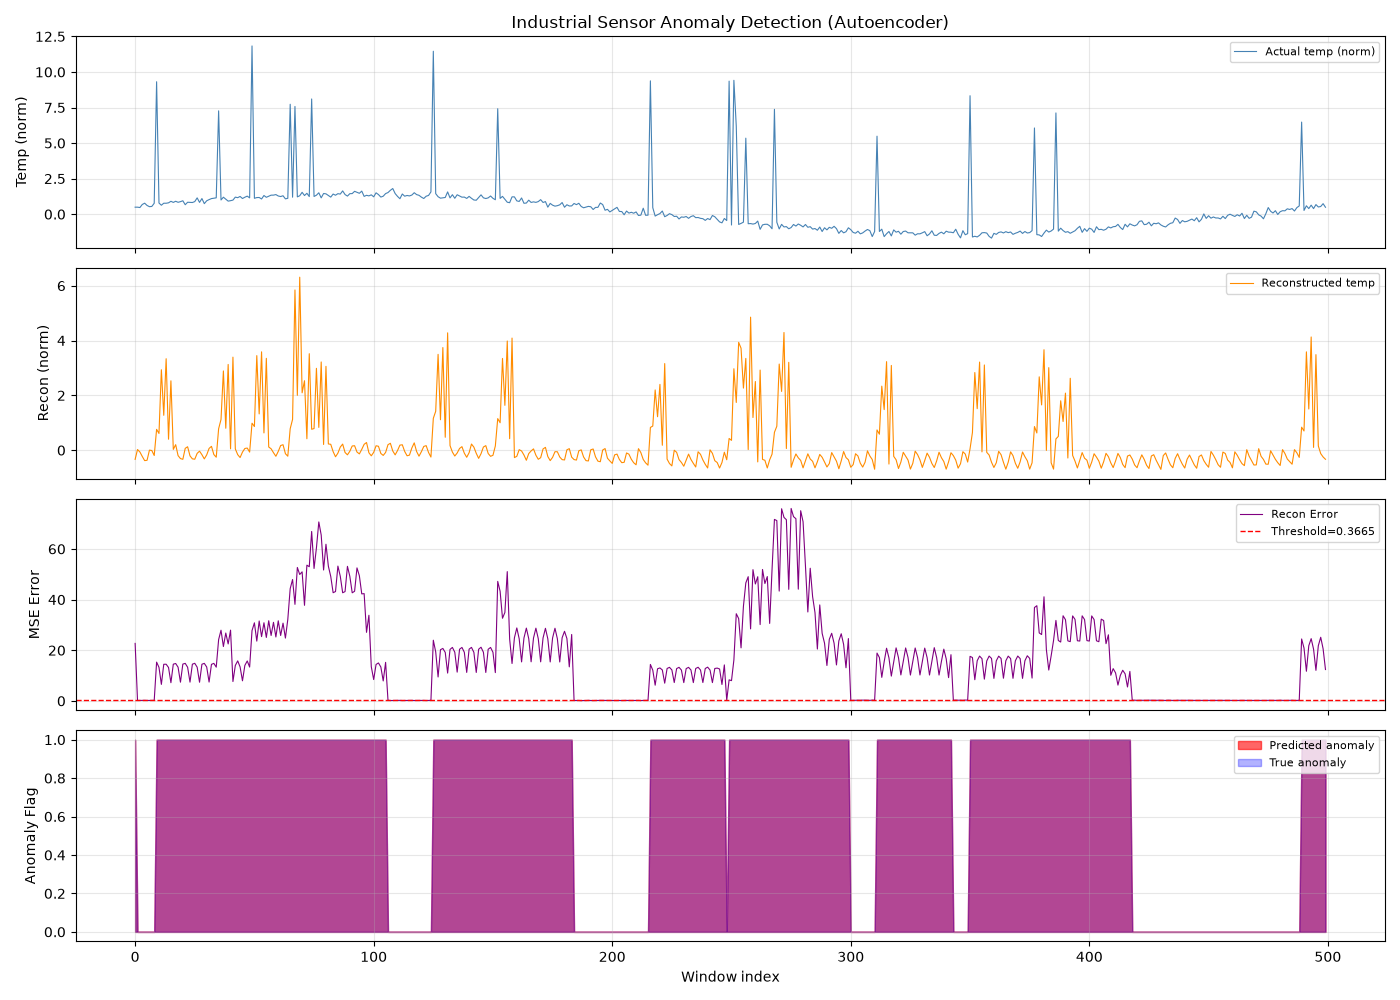
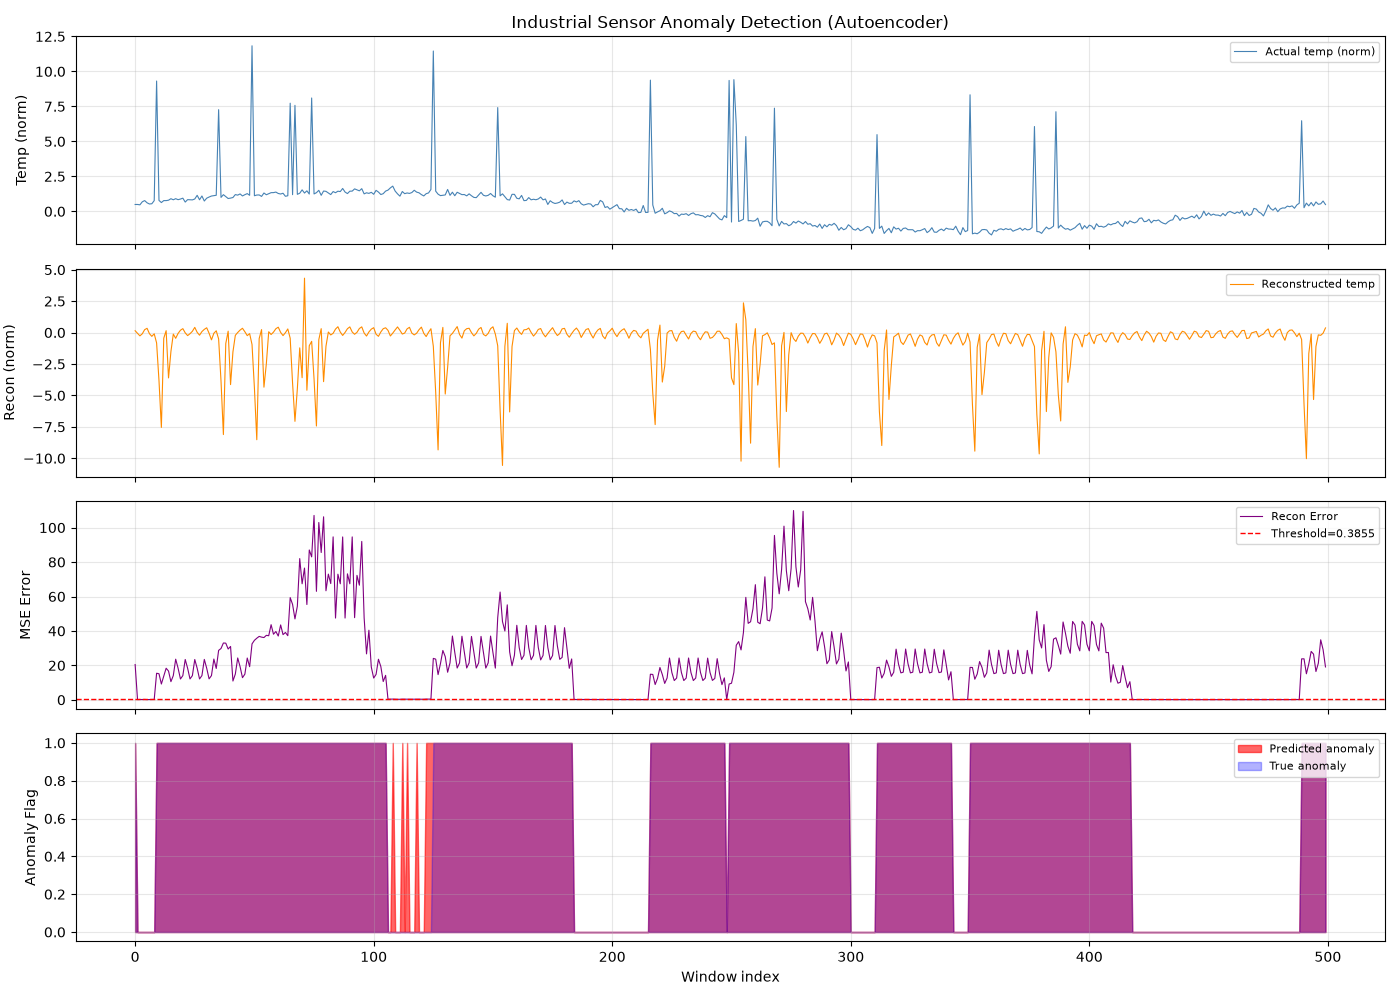
COMMIT

diff --git a/ML/hyperparameter_tuning_demo.py b/ML/hyperparameter_tuning_demo.py
@@ -1,0 +1,182 @@
+"""
+Hyperparameter Tuning Demo
+===========================
+Category: MODEL SELECTION & HYPERPARAMETER TUNING
+
+What it does:
+  Compares GridSearchCV (exhaustive) vs RandomizedSearchCV (random sampling)
+  on a RandomForestClassifier tuning task. Shows:
+    - How many model fits each approach performs
+    - Which finds the better hyperparameters
+    - Time tradeoff between exhaustive and random search
+    - How to read the results heatmap
+
+What it teaches:
+  - GridSearchCV: tries every combination in the grid (guaranteed to find best)
+  - RandomizedSearchCV: samples n_iter combinations randomly (faster, good approximation)
+  - Cross-validation inside search (no data leakage)
+  - How to choose between the two approaches
+
+How to run:
+  python ML\hyperparameter_tuning_demo.py   (from PYTHON\ folder)
+
+Estimated RAM: ~100MB | Time: ~30s
+Dataset: synthetic classification (sklearn.make_classification, 500 samples)
+"""
+
+import os, time
+import numpy as np
+import matplotlib
+matplotlib.use("Agg")
+import matplotlib.pyplot as plt
+from sklearn.datasets import make_classification
+from sklearn.ensemble import RandomForestClassifier
+from sklearn.model_selection import GridSearchCV, RandomizedSearchCV, cross_val_score
+
+os.makedirs("ML/outputs", exist_ok=True)
+
+# ─── DATA ─────────────────────────────────────────────────────────────────────
+print("Hyperparameter Tuning Demo")
+print("=" * 55)
+
+rng = np.random.RandomState(42)
+X, y = make_classification(
+    n_samples=500, n_features=8, n_informative=5,
+    n_redundant=2, random_state=42
+)
+print(f"Dataset: {X.shape[0]} samples, {X.shape[1]} features, class balance: {y.mean():.2f}")
+
+# ─── BASELINE (no tuning) ─────────────────────────────────────────────────────
+base_model  = RandomForestClassifier(random_state=42)
+base_cv     = cross_val_score(base_model, X, y, cv=5, scoring="accuracy")
+print(f"\nBaseline (default params): {base_cv.mean():.4f} +/- {base_cv.std():.4f}")
+
+# ─── SEARCH SPACE ─────────────────────────────────────────────────────────────
+param_grid = {
+    "n_estimators":    [50, 100, 200],
+    "max_depth":       [3, 5, None],
+    "min_samples_leaf":[1, 2, 4],
+    "max_features":    ["sqrt", "log2"],
+}
+# Grid has 3 * 3 * 3 * 2 = 54 combinations, each with 5-fold CV = 270 fits
+total_grid_fits = 3 * 3 * 3 * 2 * 5
+n_iter_random   = 15
+
+print(f"\nSearch space: {3*3*3*2} combinations")
+print(f"  GridSearchCV   : all {3*3*3*2} combos x 5-fold = {total_grid_fits} fits")
+print(f"  RandomizedSearchCV: {n_iter_random} combos x 5-fold = {n_iter_random*5} fits")
+
+# ─── GRID SEARCH ──────────────────────────────────────────────────────────────
+print("\nRunning GridSearchCV (exhaustive)...")
+t0 = time.time()
+grid_search = GridSearchCV(
+    RandomForestClassifier(random_state=42),
+    param_grid,
+    cv=5, scoring="accuracy", n_jobs=-1, refit=True
+)
+grid_search.fit(X, y)
+grid_time = time.time() - t0
+
+print(f"  Done in {grid_time:.1f}s")
+print(f"  Best score    : {grid_search.best_score_:.4f}")
+print(f"  Best params   : {grid_search.best_params_}")
+
+# ─── RANDOM SEARCH ────────────────────────────────────────────────────────────
+print(f"\nRunning RandomizedSearchCV (n_iter={n_iter_random})...")
+t0 = time.time()
+rand_search = RandomizedSearchCV(
+    RandomForestClassifier(random_state=42),
+    param_grid,
+    n_iter=n_iter_random, cv=5, scoring="accuracy",
+    n_jobs=-1, refit=True, random_state=42
+)
+rand_search.fit(X, y)
+rand_time = time.time() - t0
+
+print(f"  Done in {rand_time:.1f}s")
+print(f"  Best score    : {rand_search.best_score_:.4f}")
+print(f"  Best params   : {rand_search.best_params_}")
+
+# ─── COMPARISON TABLE ─────────────────────────────────────────────────────────
+print("\n" + "=" * 55)
+print("  COMPARISON SUMMARY")
+print("-" * 55)
+print(f"  {'Method':<25} {'Best CV Acc':>11}  {'Time':>8}  {'Fits':>6}")
+print("-" * 55)
+print(f"  {'Baseline (defaults)':<25} {base_cv.mean():>11.4f}  {'N/A':>8}  {'N/A':>6}")
+print(f"  {'GridSearchCV':<25} {grid_search.best_score_:>11.4f}  {grid_time:>7.1f}s  {total_grid_fits:>6}")
+print(f"  {'RandomizedSearchCV':<25} {rand_search.best_score_:>11.4f}  {rand_time:>7.1f}s  {n_iter_random*5:>6}")
+print("-" * 55)
+
+gain_grid = (grid_search.best_score_ - base_cv.mean()) * 100
+gain_rand = (rand_search.best_score_ - base_cv.mean()) * 100
+print(f"\n  Gain over baseline:")
+print(f"    GridSearchCV      : +{gain_grid:.2f}%")
+print(f"    RandomizedSearchCV: +{gain_rand:.2f}%")
+
+speedup = grid_time / max(rand_time, 0.001)
+print(f"\n  GridSearch is {speedup:.1f}x slower than RandomizedSearch")
+print(f"  Score gap: {abs(grid_search.best_score_ - rand_search.best_score_)*100:.2f}% difference")
+
+# ─── VISUALIZE GRIDSEARCH HEATMAP ─────────────────────────────────────────────
+# Pivot: n_estimators vs max_depth, averaged over other params
+
+import pandas as pd
+results_df = pd.DataFrame(grid_search.cv_results_)
+
+# For each (n_estimators, max_depth) pair, take the best score across other params
+heatmap_data = {}
+for _, row in results_df.iterrows():
+    key = (row["param_n_estimators"], str(row["param_max_depth"]))
+    if key not in heatmap_data or row["mean_test_score"] > heatmap_data[key]:
+        heatmap_data[key] = row["mean_test_score"]
+
+n_est_vals  = sorted({k[0] for k in heatmap_data})
+depth_vals  = ["3", "5", "None"]
+grid_matrix = np.zeros((len(depth_vals), len(n_est_vals)))
+for i, d in enumerate(depth_vals):
+    for j, n in enumerate(n_est_vals):
+        grid_matrix[i, j] = heatmap_data.get((n, d), 0)
+
+fig, axes = plt.subplots(1, 2, figsize=(12, 4))
+
+# Heatmap
+im = axes[0].imshow(grid_matrix, cmap="YlOrRd", aspect="auto",
+                    vmin=grid_matrix.min()-0.01, vmax=grid_matrix.max()+0.01)
+axes[0].set_xticks(range(len(n_est_vals))); axes[0].set_xticklabels(n_est_vals)
+axes[0].set_yticks(range(len(depth_vals)));  axes[0].set_yticklabels(depth_vals)
+axes[0].set_xlabel("n_estimators"); axes[0].set_ylabel("max_depth")
+axes[0].set_title("GridSearch: Best CV Accuracy\n(n_estimators vs max_depth)")
+for i in range(len(depth_vals)):
+    for j in range(len(n_est_vals)):
+        axes[0].text(j, i, f"{grid_matrix[i,j]:.3f}", ha="center", va="center",
+                     fontsize=9, color="black")
+plt.colorbar(im, ax=axes[0])
+
+# Comparison bar chart
+methods = ["Baseline", "GridSearch", "RandomSearch"]
+scores  = [base_cv.mean(), grid_search.best_score_, rand_search.best_score_]
+errs    = [base_cv.std(), 0, 0]
+colors  = ["steelblue", "tomato", "seagreen"]
+bars = axes[1].bar(methods, scores, yerr=errs, capsize=5, color=colors, alpha=0.85)
+axes[1].set_ylim(min(scores) - 0.05, 1.0)
+axes[1].set_ylabel("5-Fold CV Accuracy")
+axes[1].set_title("Method Comparison")
+axes[1].grid(axis="y", alpha=0.3)
+for bar, score in zip(bars, scores):
+    axes[1].text(bar.get_x() + bar.get_width()/2, score + 0.005,
+                 f"{score:.4f}", ha="center", va="bottom", fontsize=9)
+
+# Annotate timing
+timing_txt = f"Grid: {grid_time:.1f}s\nRand: {rand_time:.1f}s"
+axes[1].text(0.98, 0.05, timing_txt, transform=axes[1].transAxes,
+             ha="right", va="bottom", fontsize=9,
+             bbox=dict(boxstyle="round", facecolor="wheat", alpha=0.5))
+
+plt.suptitle("Hyperparameter Tuning: GridSearch vs RandomizedSearch", fontsize=11)
+plt.tight_layout()
+outpath = "ML/outputs/hyperparameter_tuning.png"
+plt.savefig(outpath, dpi=90)
+plt.close()
+print(f"\nPlot saved -> {outpath}")
+print("\n[DONE] hyperparameter_tuning_demo.py complete")

diff --git a/ML/README.md b/ML/README.md
@@ -11,3 +11,26 @@ Quick-start templates for classical machine learning.
 - ADVANCED/week1/day05 — Intro to ML (sklearn)
 - ADVANCED/week1/day06 — Classical ML classifiers
 - ADVANCED/week1/day07 — Model evaluation
+
+---
+
+## Runnable Projects
+
+All commands are run from the `PYTHON/` folder using the venv Python.
+Outputs (PNG plots) are saved to `ML/outputs/`.
+
+| Category | File | Description | Run command |
+|----------|------|-------------|-------------|
+| Regression | `regression_house_prices.py` | LinearReg / Ridge / RandomForest on synthetic housing data; MAE/RMSE/R2 | `python ML\regression_house_prices.py` |
+| Classification | `classification_customer_churn.py` | LogReg / RF / GBM on synthetic churn data; accuracy/precision/recall/ROC | `python ML\classification_customer_churn.py` |
+| Clustering | `clustering_customer_segments.py` | KMeans + DBSCAN on synthetic spend/frequency data; silhouette + PCA 2D plot | `python ML\clustering_customer_segments.py` |
+| Dimensionality Reduction | `dimensionality_reduction_visualizer.py` | PCA and t-SNE on digits dataset; explained variance + 2D visualization | `python ML\dimensionality_reduction_visualizer.py` |
+| Recommendation | `recommendation_system_basic.py` | User-based collaborative filtering on a synthetic 30-user x 20-movie rating matrix | `python ML\recommendation_system_basic.py` |
+| Anomaly Detection | `anomaly_detection_classical.py` | Z-score / IsolationForest / LOF on synthetic sensor data with injected outliers | `python ML\anomaly_detection_classical.py` |
+| Time-Series | `time_series_forecasting_classical.py` | Naive / moving-avg / exp-smoothing / decomp+trend on synthetic daily sales data | `python ML\time_series_forecasting_classical.py` |
+| Ensemble Methods | `ensemble_methods_comparison.py` | DT / Bagging / RandomForest / GBM / AdaBoost 5-fold CV comparison | `python ML\ensemble_methods_comparison.py` |
+| Feature Engineering | `feature_engineering_pipeline.py` | sklearn Pipeline with imputation / OHE / scaling on a synthetic messy dataset | `python ML\feature_engineering_pipeline.py` |
+| Hyperparameter Tuning | `hyperparameter_tuning_demo.py` | GridSearchCV vs RandomizedSearchCV on RF; timing + heatmap | `python ML\hyperparameter_tuning_demo.py` |
+
+> **Hardware note:** All scripts run CPU-only. Tested on Ryzen 7, 8 GB RAM.
+> Peak RAM ~200 MB. Slowest script (dim reduction with t-SNE) takes ~5s. All data is synthetic or sklearn built-in.

diff --git a/DL/README.md b/DL/README.md
@@ -19,3 +19,22 @@ Drop-in training loop templates for deep learning.
 - ADVANCED/week5/day31 — Autoencoders
 - ADVANCED/week5/day33 — Attention mechanism
 - ADVANCED/week5/day34 — Transformer basics
+
+---
+
+## Runnable Projects
+
+All commands are run from the `PYTHON/` folder using the venv Python.
+Outputs (PNG plots) are saved to `DL/outputs/`.
+
+| File | Description | Run command |
+|------|-------------|-------------|
+| `road_traffic_time_series.py` | LSTM forecasting on synthetic hourly traffic data; MAE/RMSE vs actual | `python DL\road_traffic_time_series.py` |
+| `human_activity_recognition.py` | 1D-CNN classifies walking/running/sitting from synthetic accelerometer windows | `python DL\human_activity_recognition.py` |
+| `human_text_understanding.py` | Trainable embedding + dense NN classifies urgent vs non-urgent support messages | `python DL\human_text_understanding.py` |
+| `road_sign_recognition.py` | CNN classifies 4 synthetic traffic sign shapes (stop/yield/warning/speed) | `python DL\road_sign_recognition.py` |
+| `anomaly_detection_realworld.py` | 1D-conv autoencoder detects anomaly spikes in synthetic industrial sensor data | `python DL\anomaly_detection_realworld.py` |
+| `model_comparison_realworld.py` | Compares naive/moving-avg/linear-reg/LSTM on traffic data; explains when DL helps | `python DL\model_comparison_realworld.py` |
+
+> **Hardware note:** All scripts run CPU-only (no GPU). Tested on Ryzen 7, 8 GB RAM.
+> Peak RAM ~300 MB. Slowest script (traffic LSTM) takes ~10s. All data is synthetic.